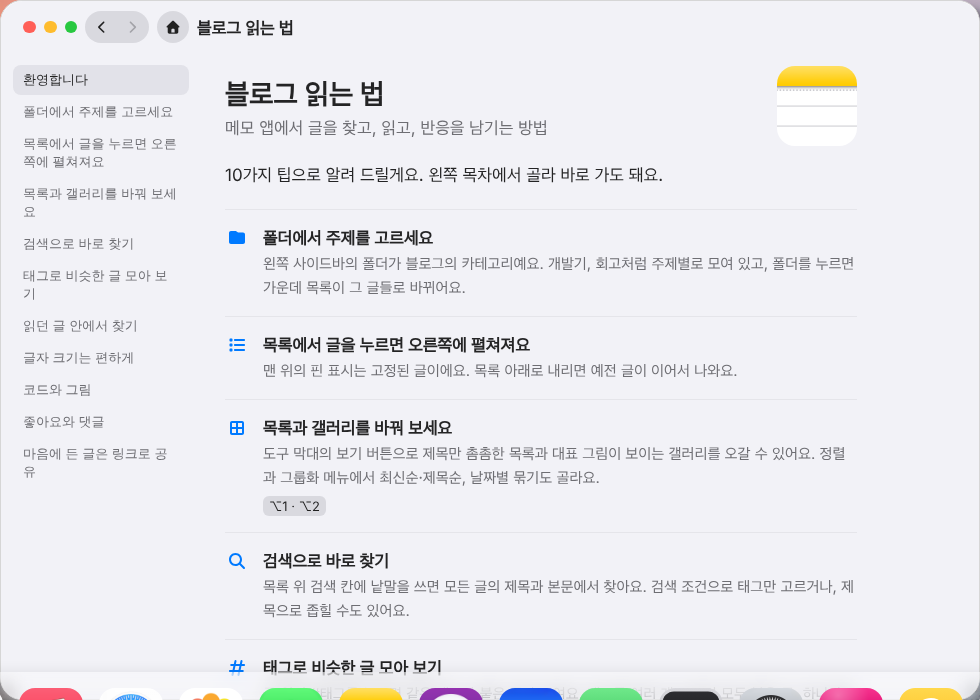
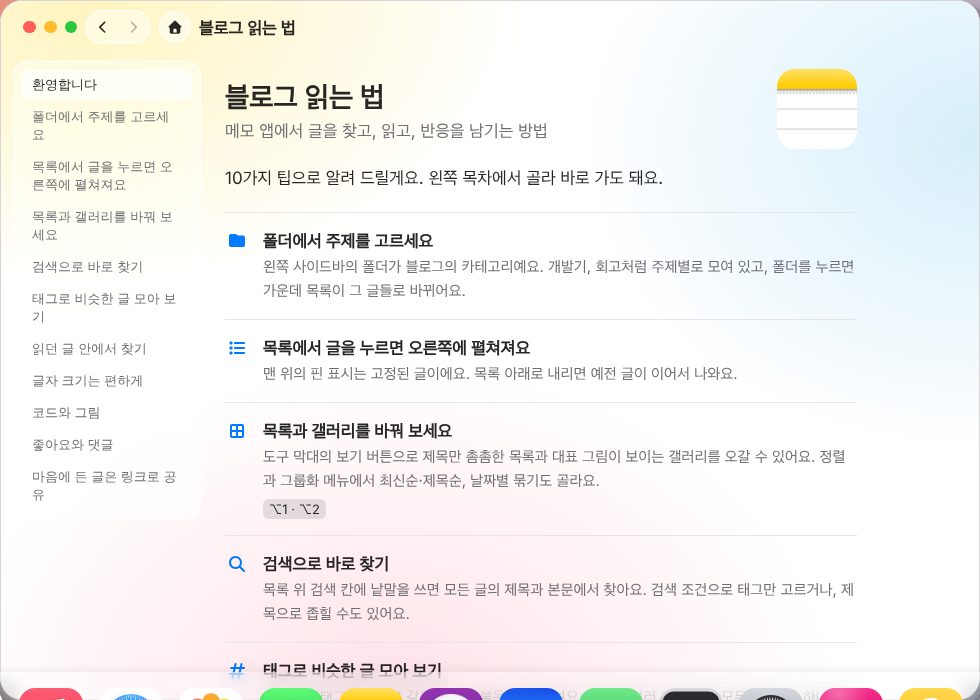
style(tips): 밝은 바탕과 유리 판으로 가볍게
- 바탕을 창 회색에서 흰 내용 바탕으로, 노랑·하늘·분홍의 옅은 빛을 깖
- 카드·찾기·막대 단추·목차를 반투명 유리 판(blur·saturate)으로
- 다크 모드에서도 같은 유리 판이 어두운 바탕 위에 보이게

diff --git a/apps/react/src/apps/tips/Tips.css b/apps/react/src/apps/tips/Tips.css
@@ -1,9 +1,32 @@
 /* 팁 앱 (macOS 팁): 위쪽 막대, 첫 화면의 큰 제목·찾기·카드, 사용 설명서(왼쪽 목차 + 본문) */
 .tips {
+	/* 유리 판: 뒤의 옅은 빛이 비치는 반투명 흰 판 (다크 모드에서는 반투명 검은 판) */
+	--tips-glass: color-mix(in srgb, var(--color-text-background) 55%, transparent);
+	--tips-glass-strong: color-mix(in srgb, var(--color-text-background) 75%, transparent);
+	--tips-glass-edge: color-mix(in srgb, var(--color-label) 8%, transparent);
+	--tips-glass-blur: blur(24px) saturate(180%);
+
 	display: flex;
 	flex-direction: column;
 	height: 100%;
-	background-color: var(--color-window-background);
+	/* 흰 바탕에 노랑·파랑·분홍의 옅은 빛을 깔아 유리 판 뒤로 비치게 한다 */
+	background:
+		radial-gradient(
+			40rem 26rem at 8% 0%,
+			color-mix(in srgb, var(--color-system-yellow) 26%, transparent),
+			transparent 70%
+		),
+		radial-gradient(
+			36rem 28rem at 100% 20%,
+			color-mix(in srgb, var(--color-system-cyan) 20%, transparent),
+			transparent 70%
+		),
+		radial-gradient(
+			40rem 30rem at 40% 100%,
+			color-mix(in srgb, var(--color-system-pink) 14%, transparent),
+			transparent 70%
+		),
+		var(--color-text-background);
 	color: var(--color-label);
 	text-align: left;
 	container-type: inline-size;
@@ -26,7 +49,9 @@
 	display: inline-flex;
 	padding: var(--space-2);
 	border-radius: var(--radius-full);
-	background-color: var(--color-system-fill);
+	border: 1px solid var(--tips-glass-edge);
+	background-color: var(--tips-glass);
+	backdrop-filter: var(--tips-glass-blur);
 }
 
 .tips-bar-pill button,
@@ -47,7 +72,9 @@
 .tips-bar-round {
 	width: 32px;
 	height: 32px;
-	background-color: var(--color-system-fill);
+	border: 1px solid var(--tips-glass-edge);
+	background-color: var(--tips-glass);
+	backdrop-filter: var(--tips-glass-blur);
 }
 
 .tips-bar-pill button:disabled,
@@ -59,7 +86,7 @@
 
 .tips-bar-pill button:not(:disabled):hover,
 .tips-bar-round:not(:disabled):hover {
-	background-color: var(--color-secondary-system-fill);
+	background-color: var(--tips-glass-strong);
 }
 
 .tips-bar-title {
@@ -98,7 +125,10 @@
 	margin: 0 auto var(--space-24);
 	padding: var(--space-8) var(--space-14);
 	border-radius: var(--radius-full);
-	background-color: var(--color-system-fill);
+	border: 1px solid var(--tips-glass-edge);
+	background-color: var(--tips-glass);
+	backdrop-filter: var(--tips-glass-blur);
+	box-shadow: var(--shadow-card);
 	color: var(--color-secondary-label);
 	font-size: var(--text-subhead);
 }
@@ -184,13 +214,15 @@
 	justify-content: flex-end;
 	min-height: 220px;
 	padding: var(--space-20);
-	border: 0;
+	border: 1px solid var(--tips-glass-edge);
 	border-radius: var(--radius-18);
 	background: linear-gradient(
 		160deg,
-		color-mix(in srgb, var(--color-system-yellow) 22%, transparent),
-		color-mix(in srgb, var(--color-system-orange) 10%, transparent)
+		color-mix(in srgb, var(--color-system-yellow) 30%, var(--tips-glass)),
+		var(--tips-glass)
 	);
+	backdrop-filter: var(--tips-glass-blur);
+	box-shadow: var(--shadow-card);
 	color: var(--color-label);
 	text-align: left;
 	cursor: pointer;
@@ -286,16 +318,18 @@
 	height: 100%;
 	padding: 0 0 var(--space-12);
 	overflow: hidden;
-	border: 0;
+	border: 1px solid var(--tips-glass-edge);
 	border-radius: var(--radius-14);
-	background-color: var(--color-tertiary-system-fill);
+	background-color: var(--tips-glass);
+	backdrop-filter: var(--tips-glass-blur);
+	box-shadow: var(--shadow-card);
 	color: inherit;
 	text-align: left;
 	cursor: pointer;
 }
 
 .tips-card:hover {
-	background-color: var(--color-system-fill);
+	background-color: var(--tips-glass-strong);
 }
 
 .tips-card > :not(.tips-card-art) {
@@ -348,7 +382,12 @@
 	flex-direction: column;
 	gap: var(--space-2);
 	align-self: start;
-	padding: var(--space-12);
+	margin: var(--space-8) 0 var(--space-12) var(--space-12);
+	padding: var(--space-8);
+	border: 1px solid var(--tips-glass-edge);
+	border-radius: var(--radius-14);
+	background-color: var(--tips-glass);
+	backdrop-filter: var(--tips-glass-blur);
 }
 
 .tips-toc button {
@@ -364,7 +403,7 @@
 
 .tips-toc button:hover,
 .tips-toc button.active {
-	background-color: var(--color-tertiary-system-fill);
+	background-color: var(--tips-glass-strong);
 	color: var(--color-label);
 }
 
